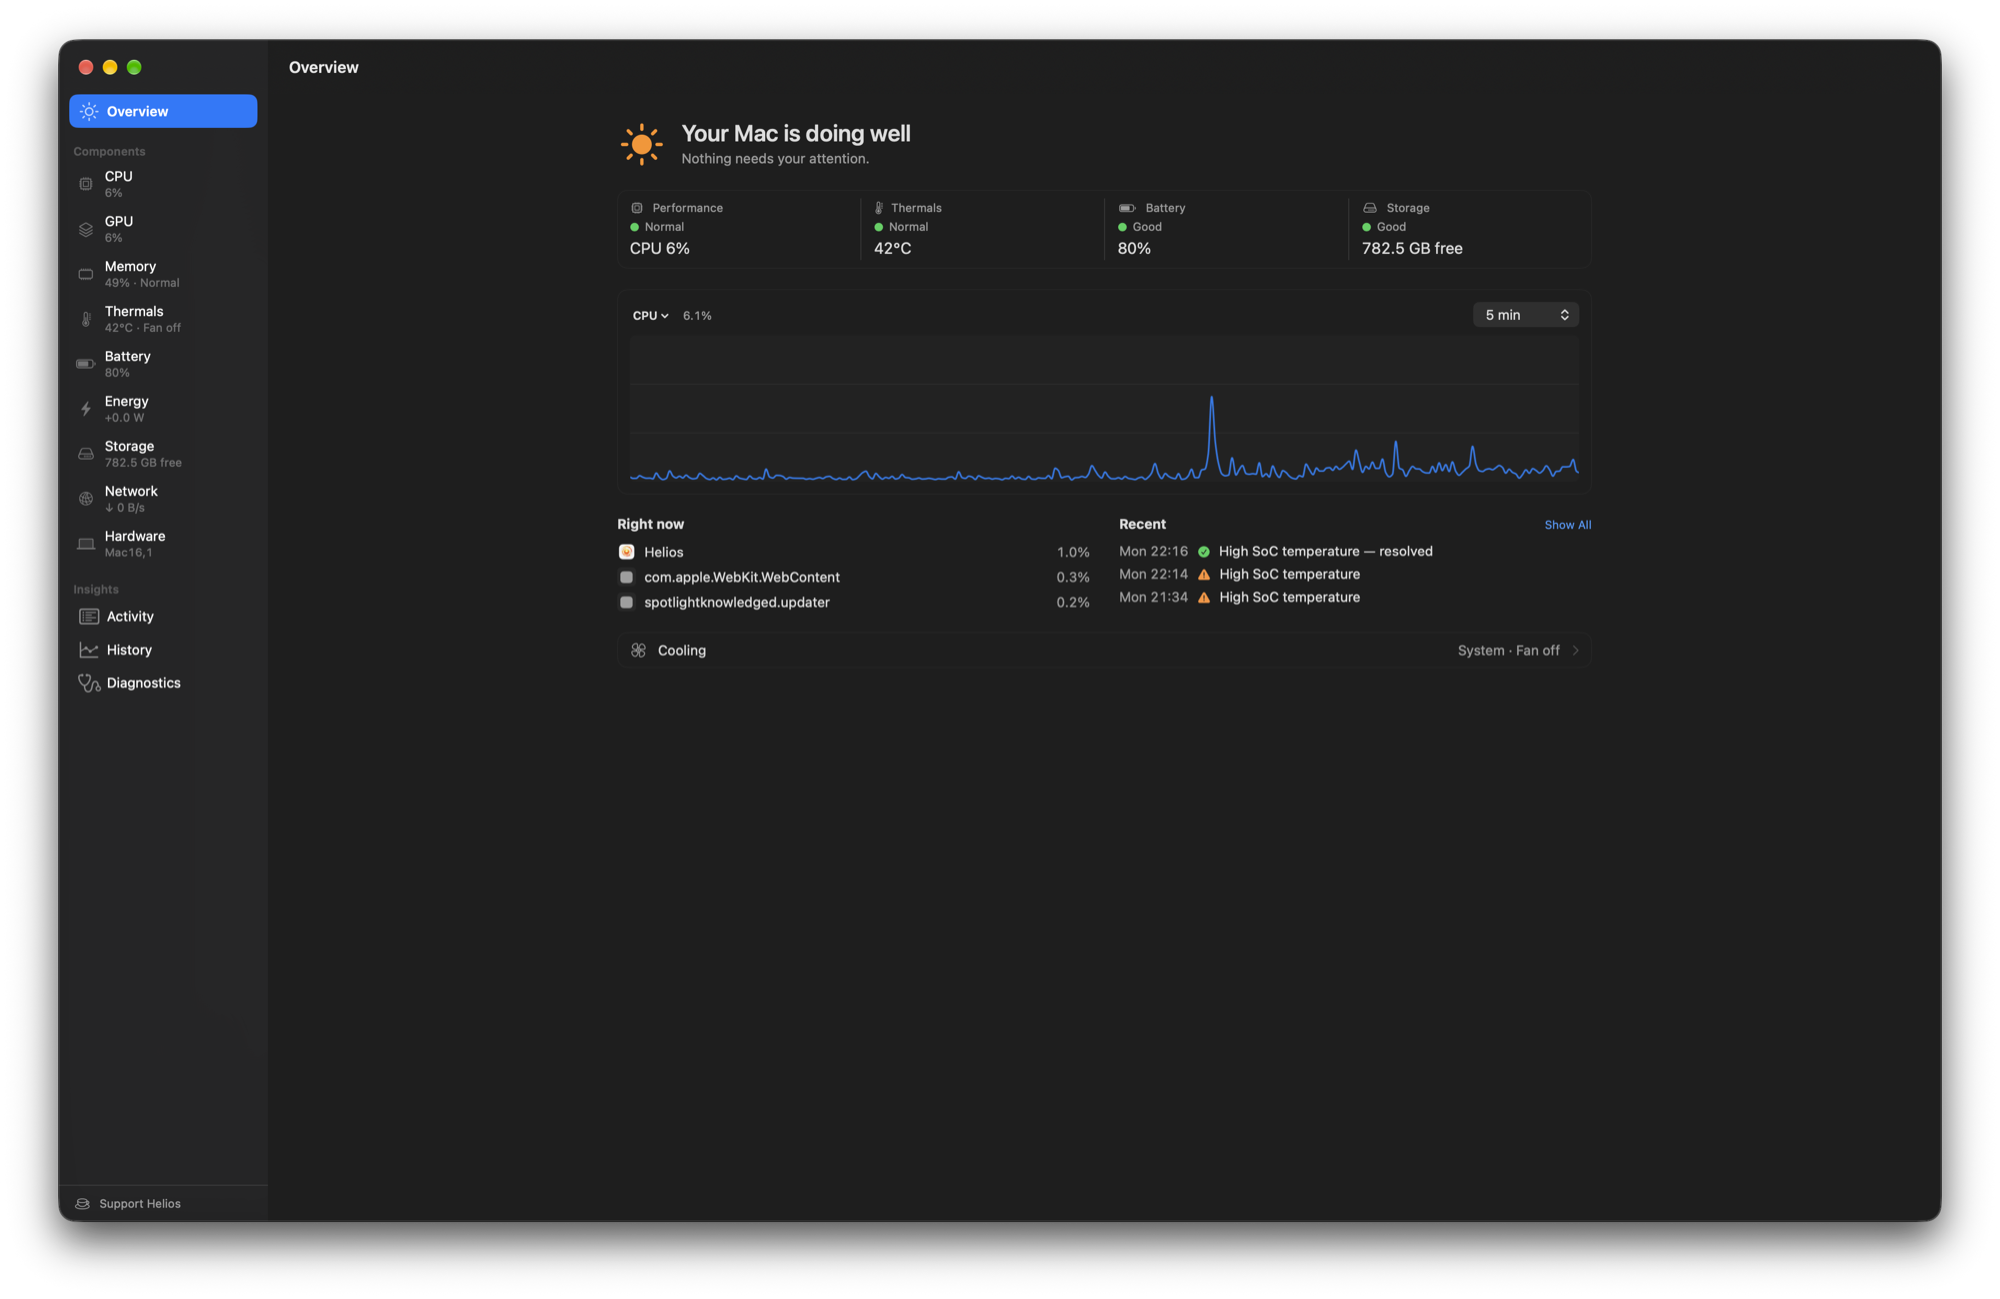
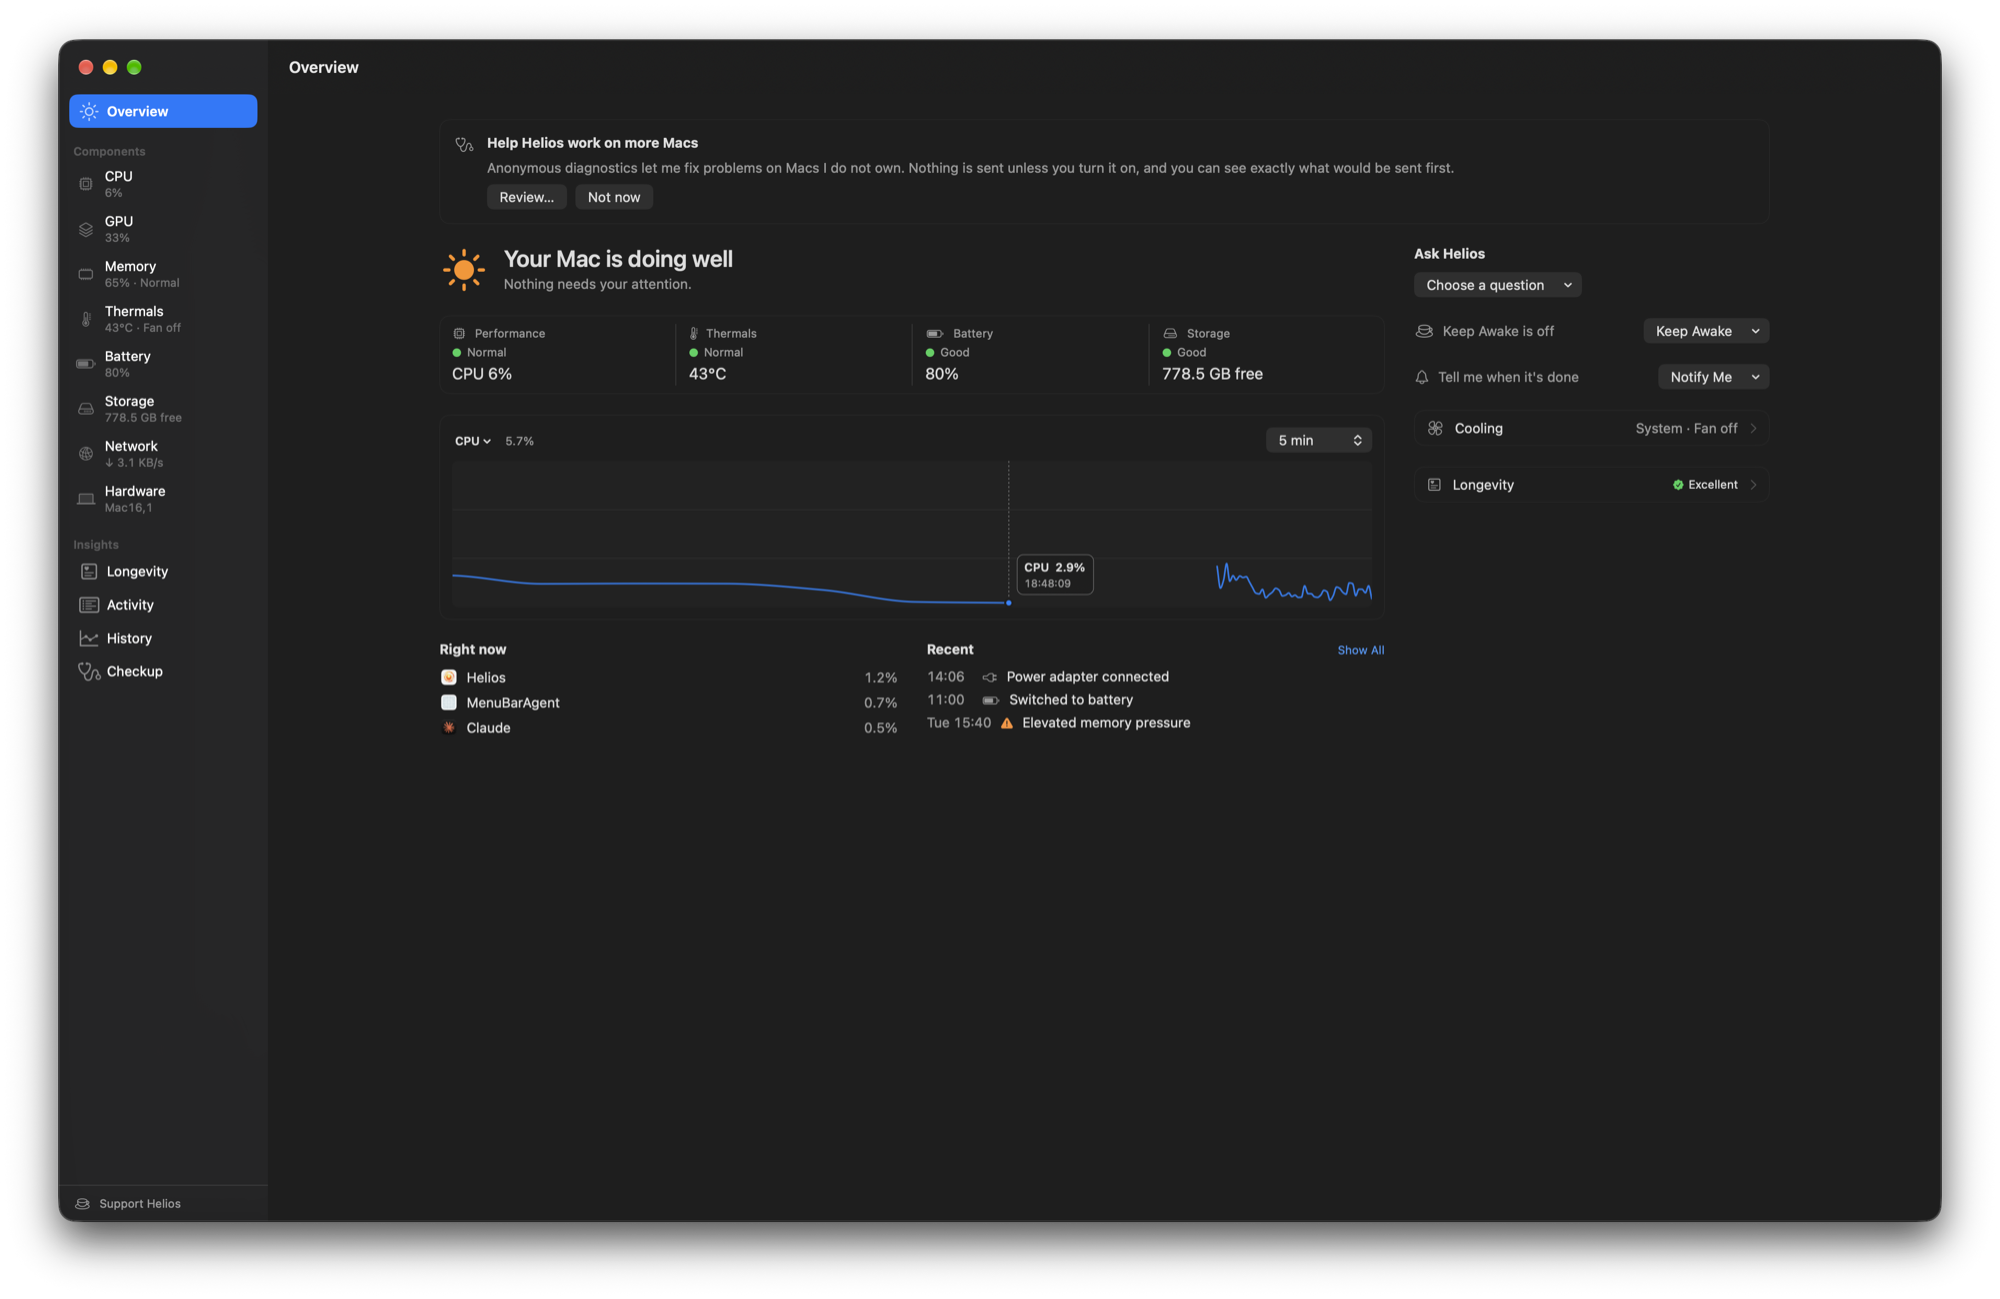
Show the 0.3.0 screenshots in the README
New popover and Overview, Ask Helios, Longevity, Checkup, Network and the Automation and
Advanced settings. The About capture (0.2.0 Beta 1) is no longer shown.

diff --git a/README.md b/README.md
@@ -9,7 +9,7 @@
 A menu-bar Mac doctor for Apple Silicon: what your Mac is doing, why, and how it
 holds up over the years, with carefully gated fan controls.
 
-**[⬇ Download Helios 0.3.0 Beta 1](https://github.com/Snejdik/helios/releases/tag/v0.3.0-beta.1)**
+**[⬇ Download Helios 0.3.0 Beta 2](https://github.com/Snejdik/helios/releases/tag/v0.3.0-beta.2)**
 
 ![macOS 13+](https://img.shields.io/badge/macOS-13%2B-111111?logo=apple&logoColor=white)
 ![Apple Silicon / arm64](https://img.shields.io/badge/Apple%20Silicon-arm64-111111)
@@ -31,7 +31,7 @@ the battery, or why the Wi-Fi crawls, and it shows what it sees and what you can
 The details are always one step away, never in the way.
 
 <p align="center">
-  <a href="docs/images/popover-overview-dark.png"><img src="docs/images/popover-overview-dark.png" alt="Helios menu-bar popover: Your Mac is doing well, with CPU, temperature, battery and storage status" width="300"></a>
+  <a href="docs/images/popover-overview-dark.png"><img src="docs/images/popover-overview-dark.png" alt="Helios menu-bar popover: Your Mac is doing well, with four health areas, a CPU chart, the busiest apps, cooling, network and Keep Awake" width="300"></a>
   &nbsp;
   <a href="docs/images/popover-cooling-dark.png"><img src="docs/images/popover-cooling-dark.png" alt="Cooling popover with temperature, fan and System, Boost, Manual and Auto modes" width="300"></a>
 </p>
@@ -67,7 +67,31 @@ unavailable, never as zero.
 
 ## A look inside
 
-<a href="docs/images/overview-dark.png"><img src="docs/images/overview-dark.png" alt="Helios Overview with live CPU chart, what is using the Mac right now and recent events" width="760"></a>
+<a href="docs/images/overview-dark.png"><img src="docs/images/overview-dark.png" alt="Helios Overview with the four health areas, a live CPU chart, Ask Helios, Keep Awake, Tell me when it's done and the Longevity row" width="760"></a>
+
+<details>
+<summary><strong>Ask Helios and Longevity</strong></summary>
+
+Pick a question and Helios answers with what it sees, why it thinks so and what you can do.
+
+<a href="docs/images/overview-ask-dark.png"><img src="docs/images/overview-ask-dark.png" alt="Ask Helios answering why the Mac is slow: macOS closed apps for memory, and Low Power Mode is on" width="760"></a>
+
+Longevity grades the battery, power adapter, SSD, cooling and memory in words, with the facts behind each grade.
+
+<a href="docs/images/longevity-dark.png"><img src="docs/images/longevity-dark.png" alt="Longevity page: grades for battery, power adapter, SSD, cooling and memory, and the battery health trend" width="760"></a>
+
+<a href="docs/images/longevity-details-dark.png"><img src="docs/images/longevity-details-dark.png" alt="Longevity details: power adapter and cable, SSD endurance, memory pressure and swap, and the two optional reminders" width="760"></a>
+
+</details>
+
+<details>
+<summary><strong>Network and Checkup</strong></summary>
+
+<a href="docs/images/network-dark.png"><img src="docs/images/network-dark.png" alt="Network page with Why is the internet slow, optional data usage per app, latency over time and download and upload charts" width="760"></a>
+
+<a href="docs/images/checkup-dark.png"><img src="docs/images/checkup-dark.png" alt="Checkup page: what Helios found, what it can read, helper and fan control status, all readings and support" width="760"></a>
+
+</details>
 
 <details>
 <summary><strong>Thermals and your own fan curve</strong></summary>
@@ -132,7 +156,9 @@ macOS.
 
 <a href="docs/images/settings-graphs-colors-dark.png"><img src="docs/images/settings-graphs-colors-dark.png" alt="Graph style, default ranges and colors" width="660"></a>
 
-<a href="docs/images/settings-about-dark.png"><img src="docs/images/settings-about-dark.png" alt="About Helios 0.2.0 Beta 1" width="660"></a>
+<a href="docs/images/settings-automation-dark.png"><img src="docs/images/settings-automation-dark.png" alt="Automation settings: rules, the command palette and the command line" width="660"></a>
+
+<a href="docs/images/settings-advanced-dark.png"><img src="docs/images/settings-advanced-dark.png" alt="Advanced settings: reset, the experimental mouse settings and uninstall" width="660"></a>
 
 </details>
 
@@ -155,8 +181,8 @@ you set, and macOS stays in charge otherwise.
 
 ## Install the beta
 
-1. Download **Helios-0.3.0-beta.1.dmg** from
-   [GitHub Releases](https://github.com/Snejdik/helios/releases/tag/v0.3.0-beta.1).
+1. Download **Helios-0.3.0-beta.2.dmg** from
+   [GitHub Releases](https://github.com/Snejdik/helios/releases/tag/v0.3.0-beta.2).
 2. Open it and drag **Helios** to Applications. If you got a ZIP, unzip it first.
 3. Open Helios from Applications and look for it in the menu bar.
 
